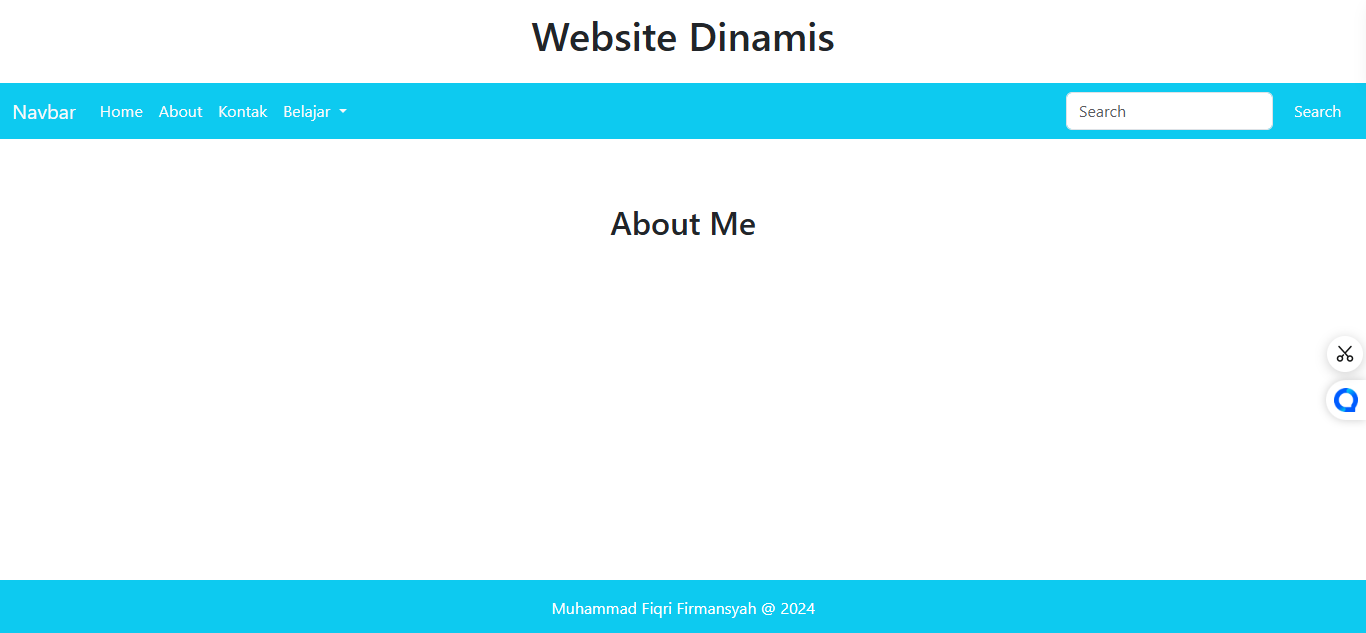
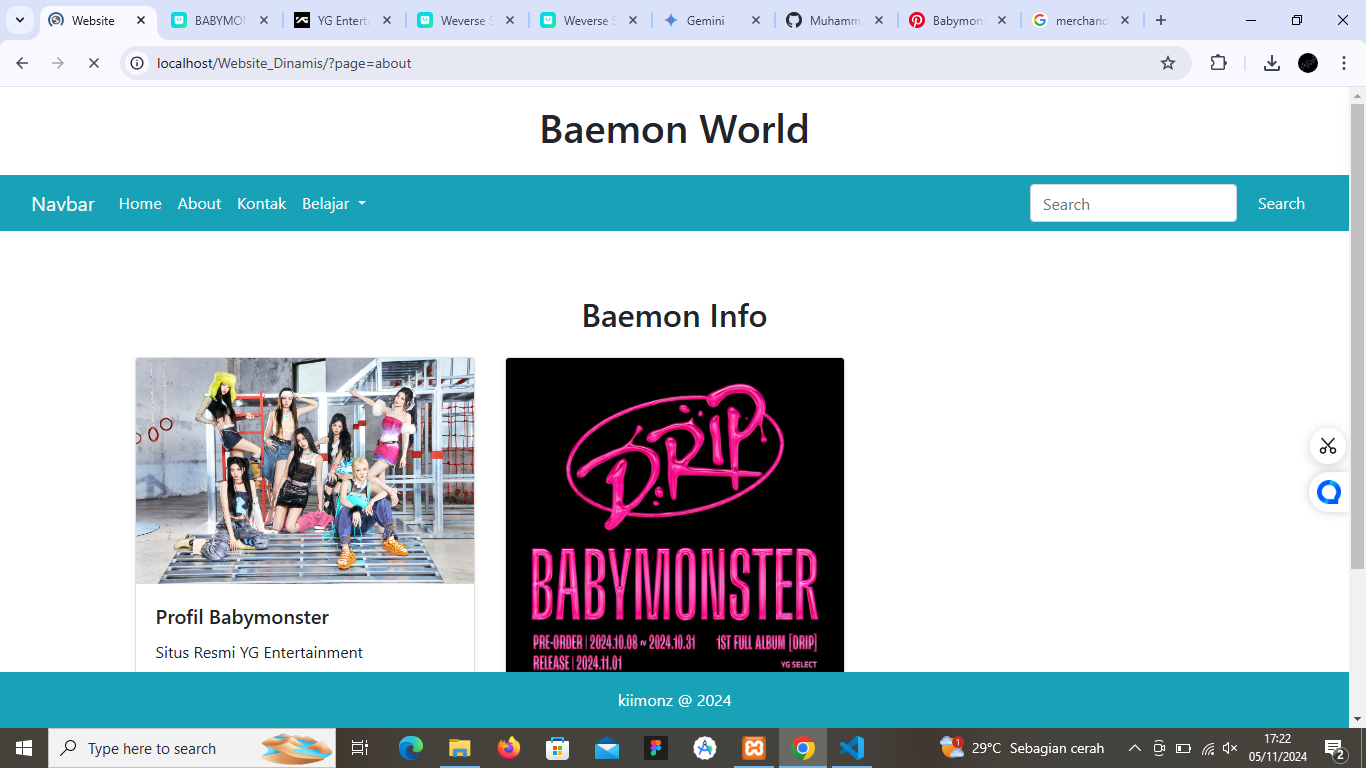
WebDinamis

diff --git a/includes/home.php b/includes/home.php
@@ -1,21 +1,52 @@
-    <!-- Hero Section -->
-    <section class="jumbotron text-center">
-        <div class="container">
-            <h1 class="display-4">Hai, Selamat Datang di Web Saya</h1>
-            <p class="lead">Let's be Friends</p>
-            <a href="?page=about" class="btn btn-info btn-lg">About Me</a>
-        </div>
-    </section>
+<!DOCTYPE html>
+<html>
+<head>
+  <title>Monstiez World</title>
+  <link rel="stylesheet" href="https://cdn.jsdelivr.net/npm/bootstrap@5.3.2/dist/css/bootstrap.min.css">
+  <style>
+    .jumbotron {
+      display: flex;
+      flex-direction: column;
+      justify-content: center;
+      align-items: center;
+      min-height: 100vh;
+      background-color: #f8f9fa;
+    }
+  </style>
+</head>
+<body>
+  <section class="jumbotron text-center">
+    <div class="container">
+      <h1 class="display-4">Welcome to Monstiez World</h1>
+      <p class="lead">Let's be Friends</p>
+      <a href="?page=about" class="btn btn-info btn-lg">About Baemon</a>
+    </div>
+  </section>
+
+  <script src="https://cdn.jsdelivr.net/npm/bootstrap@5.3.2/dist/js/bootstrap.bundle.min.js"></script>
+</body>
+</html>
 
     <!-- Tentang Saya -->
-    <section id="tentang" class="container py-5">
+    <section id="tentang" class="text-justify">
         <div class="row">
             <div class="col-md-6">
-                <img src="assets/images/Profile.jpg" alt="Profile" class="img-fluid rounded">
+                <img src="assets/images/babymonster.jpg" alt="Profile" class="img-fluid rounded">
             </div>
             <div class="col-md-6">
-                <h2>Tentang Saya</h2>
-                <p>Saya Adalah Mahasiswa di Universitas Pelita Bangsa.</p>
+            <style>
+  </style>
+  <div class="row">
+    <div class="col-md-8">
+      <p class="text-justify">
+        </p>
+</div>
+                <h2>BABYMONSTER</h2>
+                <div class="text-justify">
+                <p style="text-align: justify;">
+                Babymonster adalah girl group rookie asal Korea Selatan yang debut pada tahun 2023. Dibentuk oleh YG Entertainment, grup ini terdiri dari tujuh anggota berbakat yang masing-masing memiliki pesona unik. Dengan musik yang segar, penampilan yang energik, dan visual yang memukau, Babymonster berhasil mencuri perhatian penggemar K-Pop di seluruh dunia. Lagu-lagu hit mereka seperti Sheesh, Batter Up, Dream dan Title dari album terbaru mereka yaitu DRIP telah menjadi favorit banyak orang. Ikuti terus perjalanan Babymonster dan jadilah bagian dari Monstiez.
+                  </p>
+                <p> "We're the underdogs, but we're fighting back. We're gonna take the world, and we're never looking back".
+                  </p>
             </div>
-        </div>
     </section>

diff --git a/includes/about.php b/includes/about.php
@@ -1,7 +1,57 @@
-<!-- Portfolio Section -->
-<section id="portfolio" class="container py-5">
-    <h2 class="text-center mb-4">About Me</h2>
-    <div class="row">
+<!DOCTYPE html>
+<html lang="id">
 
-    </div>
-</section>
+<head>
+    <meta charset="UTF-8">
+    <meta name="viewport" content="width=device-width, initial-scale=1.0">
+    <title>Portfolio Saya</title>
+    <link rel="stylesheet" href="https://stackpath.bootstrapcdn.com/bootstrap/4.5.2/css/bootstrap.min.css">
+</head>
+
+<body>
+    <!-- Portfolio Section -->
+    <section id="portfolio" class="container py-5">
+        <h2 class="text-center mb-4">Baemon Info</h2>
+        <div class="row">
+            <?php
+            // Array proyek dengan data dinamis
+            $projects = [
+                [
+                    "title" => "Profil Babymonster",
+                    "image" => "assets/images/drip.jpg",
+                    "description" => "Situs Resmi YG Entertainment",
+                    "link" => "https://ygfamily.com/ko/artists/babymonster/profile"
+                ],
+
+                [
+                    "title" => "Merchandise",
+                    "image" => "assets/images/merch.jpg",
+                    "description" => "1st Full Album [DRIP] YG Select",
+                    "link" => "https://shop.weverse.io/en/shop/GL_KRW/artists/172"
+                ],
+            ];
+
+            // Menampilkan setiap proyek dalam array
+            foreach ($projects as $project) {
+                echo '
+                <div class="col-md-4 mb-4">
+                    <div class="card h-100 shadow-sm">
+                        <img src="' . $project["image"] . '" class="card-img-top" alt="' . $project["title"] . '">
+                        <div class="card-body">
+                            <h5 class="card-title">' . $project["title"] . '</h5>
+                            <p class="card-text">' . $project["description"] . '</p>
+                            <a href="' . $project["link"] . '" class="btn btn-info" target="_blank">Lihat Detail</a>
+                        </div>
+                    </div>
+                </div>';
+            }
+            ?>
+        </div>
+    </section>
+
+    <script src="https://code.jquery.com/jquery-3.5.1.slim.min.js"></script>
+    <script src="https://cdn.jsdelivr.net/npm/@popperjs/core@2.9.3/dist/umd/popper.min.js"></script>
+    <script src="https://stackpath.bootstrapcdn.com/bootstrap/4.5.2/js/bootstrap.min.js"></script>
+</body>
+
+</html>

diff --git a/index.php b/index.php
@@ -13,7 +13,7 @@
 
 <body>
     <header>
-        <h1 class="text-center p-3">Website Dinamis</h1>
+        <h1 class="text-center p-3">Baemon World</h1>
     </header>
     <!-- menu -->
     <?php include "includes/navbar.php" ?>
@@ -26,7 +26,7 @@
     <!-- ./konten -->
     <footer>
         <div class="fixed-bottom text-bg-dark p-3 text-center mt-5 bg-info">
-            Muhammad Fiqri Firmansyah @ <?= date("Y") ?>
+            kiimonz @ <?= date("Y") ?>
         </div>
     </footer>
     <script src="assets/jquery/jquery-3.7.1.js"></script>
